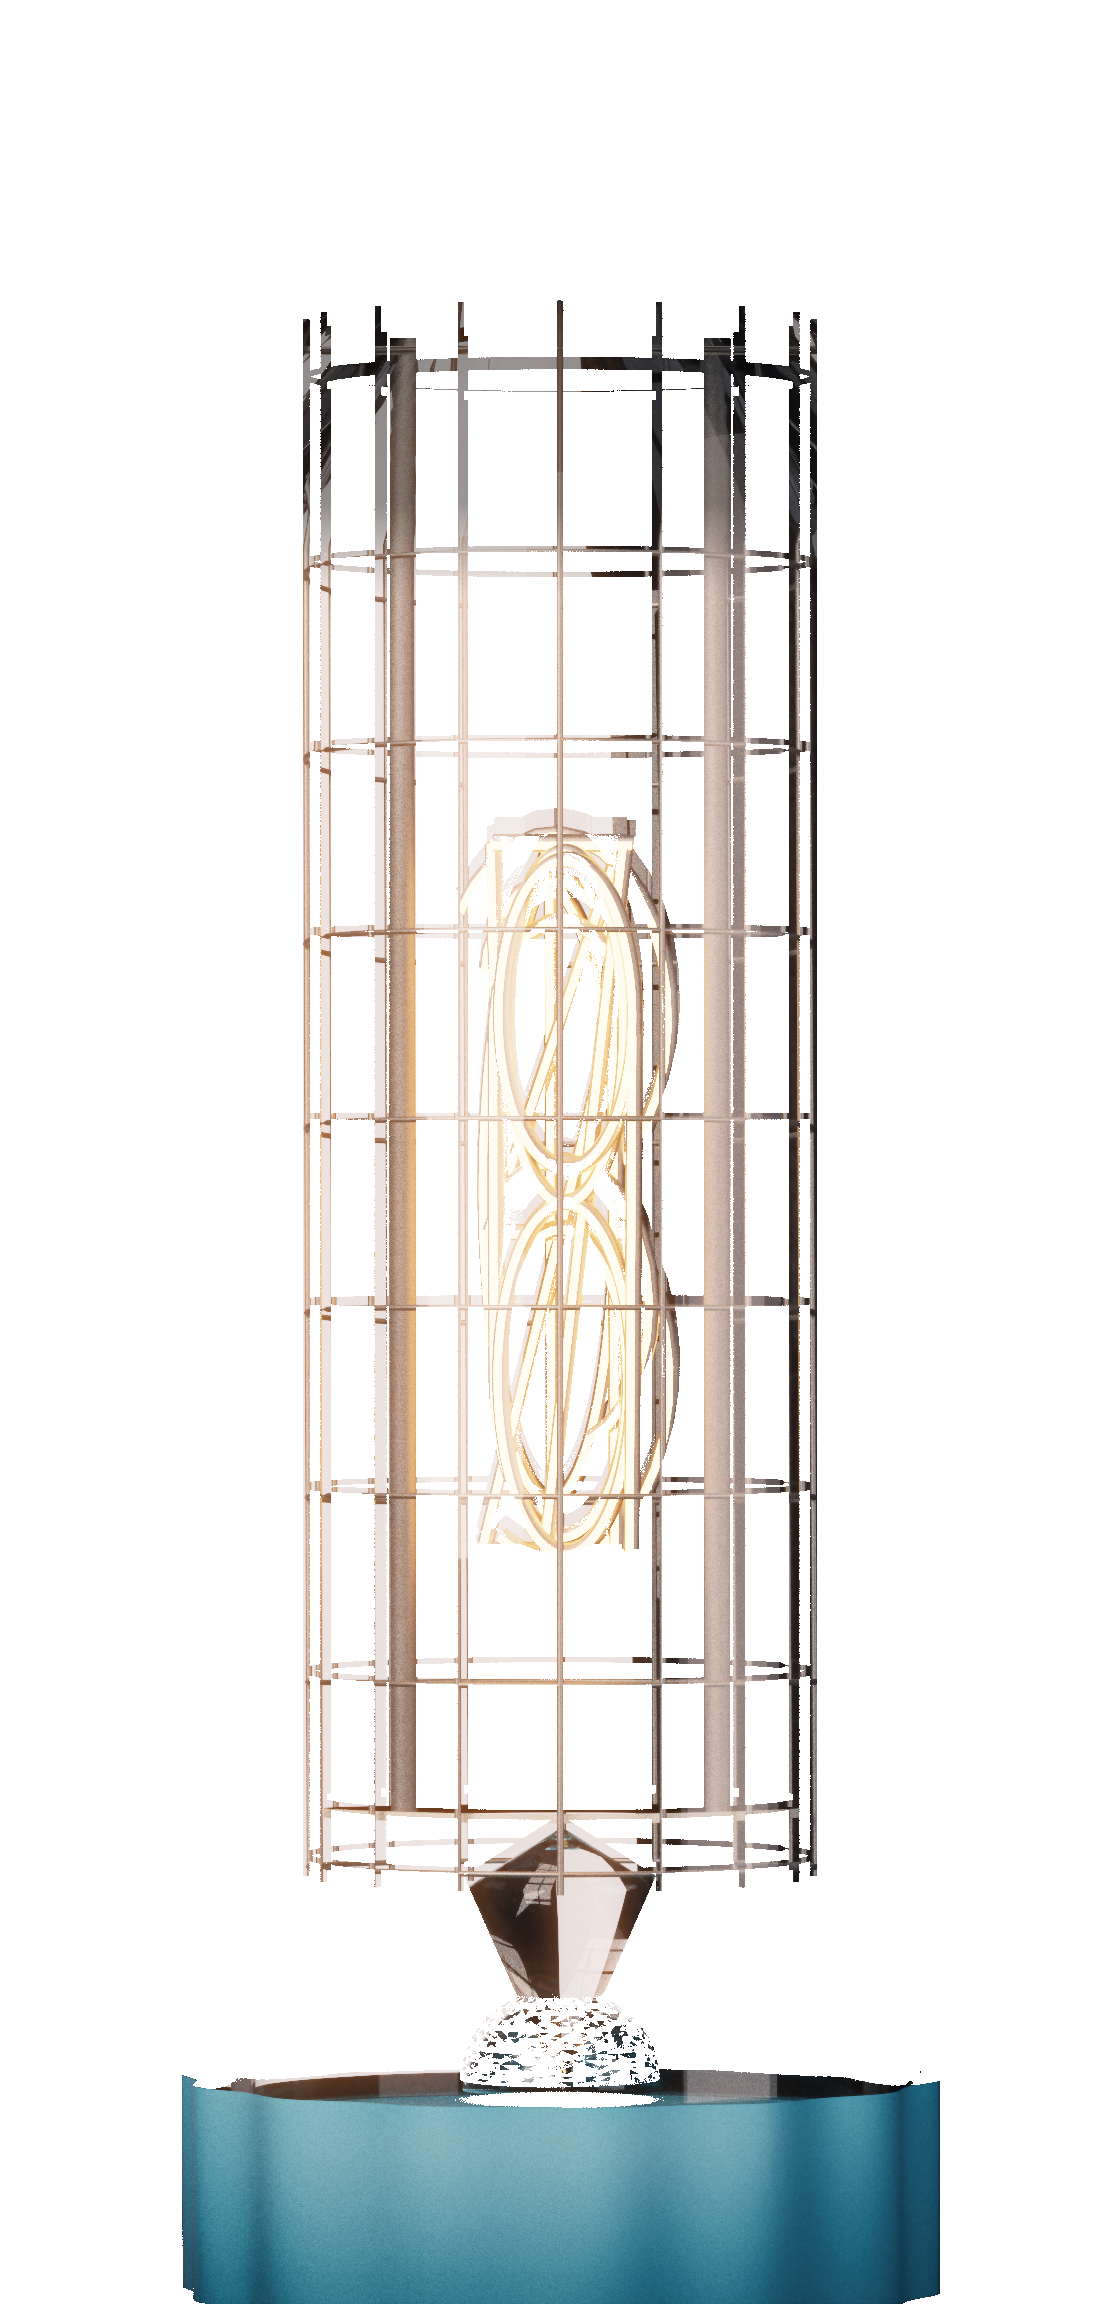
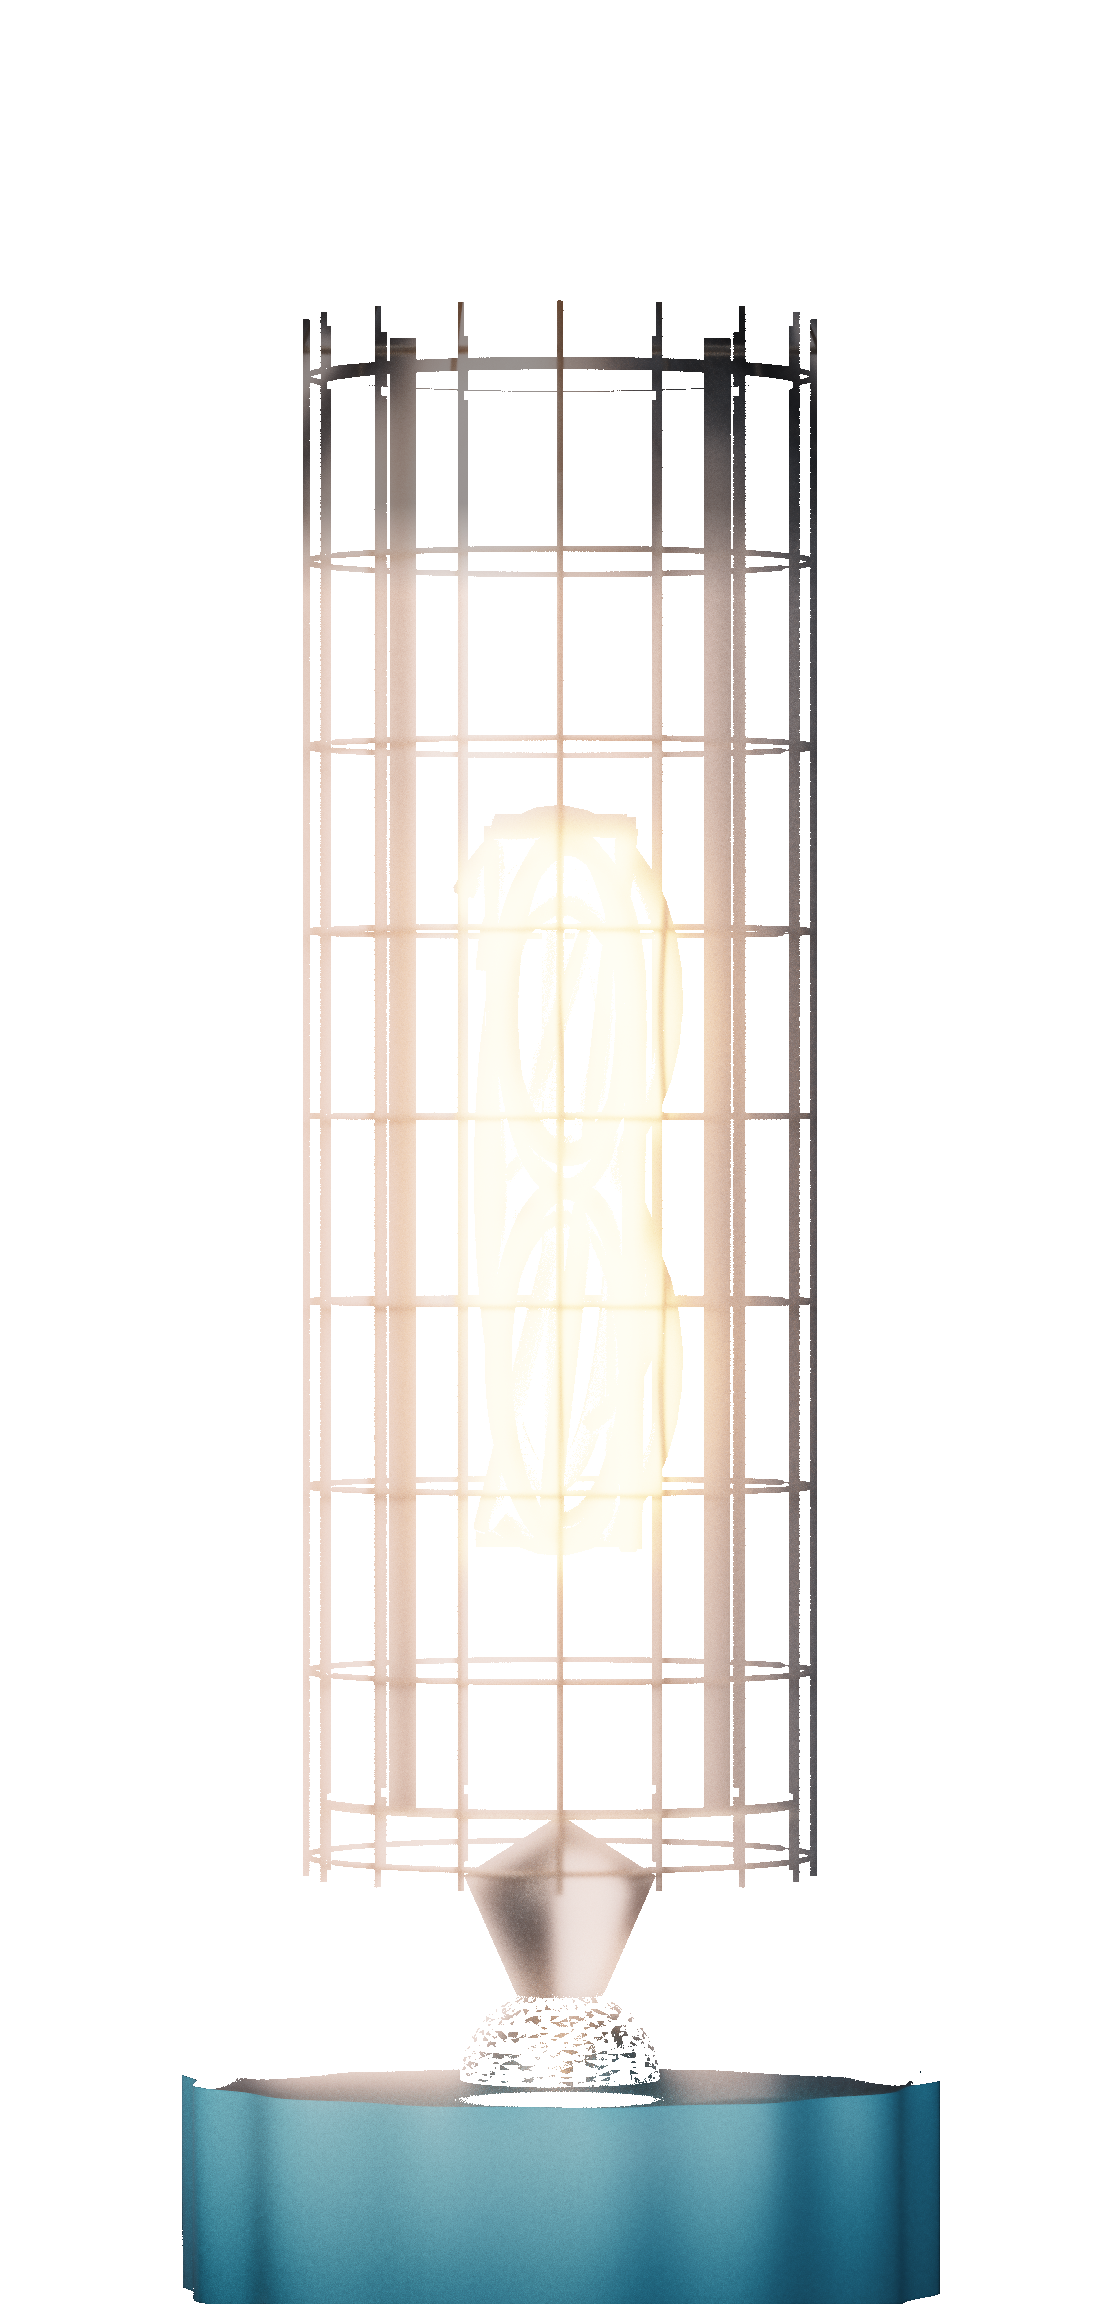
[greeter] Read the numeral from its discharge, not from a lit-up cage
По замечанию: сетка светлая, цифры тонкие — вместе не читается. Причина была в
материалах: и сетка, и катодные цифры были металлом со своим блеском, софтбоксы
превращали их в светлую решётку, и разряд терялся на её фоне.

- сетка анода — матовый тёмный металл (ggx 0.75, тёмные eta/k): в настоящей
  лампе анодный экран это едва различимая серая дымка, светится только разряд.
  Сравнивал три материала сетки — gemma4:12b и qwen3.5:27b выбрали самый тёмный
  и матовый как «меньше всего мешающий читать»;
- катодные цифры толще: 0.44 -> 0.60 мм, как катодные стойки настоящего ИН;
  нить разряда ещё толще (0.75 от стойки) — именно она и читается;
- разряд ярче: радианс 16 -> 22;
- вспышка при смене цифры глубже: пол 0.20 -> 0.08, и распределение скошено
  к «почти погас» вместо равномерного — стук газа, а не убавление яркости.

Замеры по скриншоту: доля ярких пикселей (>200) в зоне цифр 3.1% -> 17.4%.

diff --git a/files/quickshell/greeter/lock/NixieTube.qml b/files/quickshell/greeter/lock/NixieTube.qml
@@ -63,8 +63,10 @@ root.ignition = 1.0;
 return;
 }
 root.strikesLeft -= 1;
-// The gas strikes unevenly: some frames almost full, some almost out.
-root.ignition = 0.20 + 0.80 * Math.random();
+// The gas strikes unevenly: some frames almost out, the last ones all but
+// settled. The floor used to sit at a fifth of full, and the strike read as a
+// dim instead of a stutter.
+root.ignition = 0.08 + 0.92 * Math.random() * Math.random();
 strikeTimer.restart();
 }
 }

diff --git a/scripts/dev/nixie-sprite/render_tube.py b/scripts/dev/nixie-sprite/render_tube.py
@@ -31,7 +31,7 @@ mi.set_variant("llvm_ad_rgb")
 #      at 0.2803 mm/px = 29.15 x 60.0 mm) ---------------------------------------
 MM_W, MM_H = 29.15, 60.0
 R, H, WALL = 9.25, 49.34, 1.1
-RT, RW = 6.6, 0.22
+RT, RW = 6.6, 0.30
 BASE = 10.6
 RB = 9.7
 DIG_H, DIG_W = 21.0, 11.5
@@ -282,7 +282,7 @@ def build():
             glow.append(
                 (
                     [(x - 0.06, y - 0.06, z + 0.16) for (x, y, z) in pts],
-                    RW * 0.5,
+                    RW * 0.75,
                 )
             )
     # 4. the rods the stack hangs on
@@ -370,26 +370,39 @@ def build_scene(
     shapes, wires, glow = build()
     scene = {}
     scene["type"] = "scene"
-    # glass: a dielectric shell with a smooth surface
-    scene["glass"] = {"type": "dielectric", "int_ior": 1.52, "ext_ior": 1.0}
-    # tungsten cathodes and a nickel-plated anode: the metals of a real tube
+    # glass: a dielectric shell. Real envelope glass is not optically polished —
+    # the draw leaves a faint waviness that smears the highlights and softens
+    # whatever is seen through it. A mirror-smooth surface renders the reflections
+    # as crisp cut-outs, which is what read as a "flat plate".
+    scene["glass"] = {
+        "type": "roughdielectric",
+        "distribution": "ggx",
+        "alpha": 0.05,
+        "int_ior": 1.52,
+        "ext_ior": 1.0,
+    }
+    # tungsten cathodes: dark and matte. The numeral is read from its glow, not
+    # from the metal — a shiny cathode turns the whole stack into a bright sign.
     # explicit IORs: the pip wheel ships no material tables (Cr, Ni, W)
     scene["cathode"] = {
         "type": "roughconductor",
-        "alpha": 0.32,
+        "alpha": 0.60,
         "distribution": "ggx",
-        "eta": {"type": "rgb", "value": [3.2, 3.0, 2.8]},
-        "k": {"type": "rgb", "value": [2.9, 2.7, 2.5]},
+        "eta": {"type": "rgb", "value": [1.5, 1.4, 1.3]},
+        "k": {"type": "rgb", "value": [2.2, 2.0, 1.8]},
     }
     # the cage is what is seen THROUGH the glass: matte, dark and thin. A glossy
     # conductor turns every wire into a bright line, and the numerals drown in the
     # lattice — the cage should read as a dim screen, not as chrome.
+    # the cage is scenery: in a real tube the anode screen is a barely visible
+    # grey haze, and only the numeral reads. Matte and dark, so it stops catching
+    # the softboxes and turning into a bright lattice.
     scene["anode"] = {
         "type": "roughconductor",
-        "alpha": 0.55,
+        "alpha": 0.75,
         "distribution": "ggx",
-        "eta": {"type": "rgb", "value": [1.4, 1.35, 1.30]},
-        "k": {"type": "rgb", "value": [2.2, 2.1, 2.0]},
+        "eta": {"type": "rgb", "value": [1.3, 1.30, 1.30]},
+        "k": {"type": "rgb", "value": [1.6, 1.6, 1.6]},
     }
 
     # the neon threads: thin emissive tubes laid over the glyphs — the tube's
@@ -400,7 +413,7 @@ def build_scene(
     }
     scene["neonEmitter"] = {
         "type": "area",
-        "radiance": {"type": "rgb", "value": [16.0, 7.5, 2.6]},
+        "radiance": {"type": "rgb", "value": [22.0, 10.0, 3.4]},
     }
     # the collar is painted metal: a plain dielectric cyan coat over it, glossy
     # the collar's cyan: dim enough that the tone reads as paint and not as a
@@ -425,7 +438,7 @@ def build_scene(
             continue
         ply = emit_ply(v, f, f"/tmp/ms/mesh/{name}.ply")
         if name == "glass":
-            bsdf = {"type": "dielectric", "int_ior": 1.52, "ext_ior": 1.0}
+            bsdf = scene["glass"]
         elif name == "collar":
             bsdf = scene["collarM"]
 
